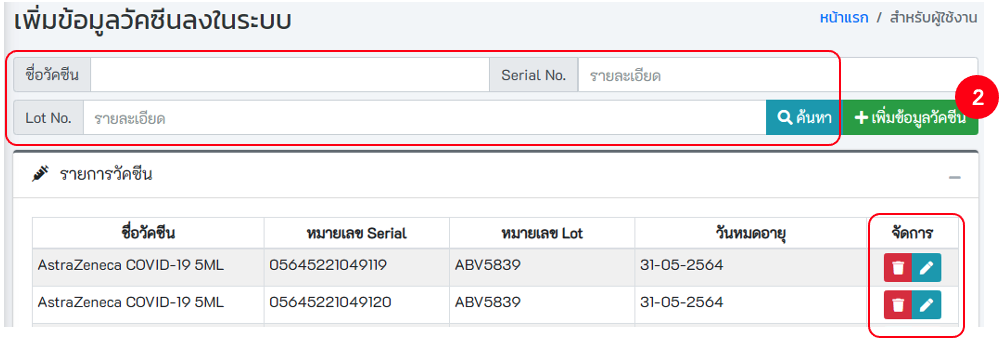
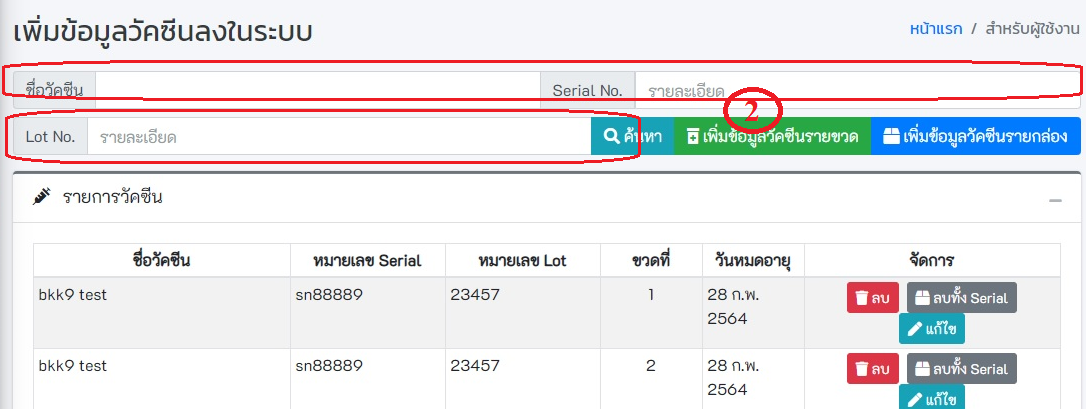
edit document by natanon

diff --git a/docs/.vuepress/config.js b/docs/.vuepress/config.js
@@ -1,5 +1,5 @@
 module.exports = {
-    title: 'Co-Vaccine-Moph V.0.1.2 Update 27/02/2021',
+    title: 'Co-Vaccine-Moph V.0.1.2 Update 03/03/2021',
     description: '',
     base: '/co-vaccine-docs/',
     port: '4000',

diff --git a/docs/user/prepare-work.md b/docs/user/prepare-work.md
@@ -5,12 +5,12 @@ title: 5. เตรียมปฏิบัติงาน
 # เตรียมปฏิบัติงาน
 ![](./img/plan-menu.png)
 
-## 3.1 ค้นหาแผนปฏิบัติงาน
+## 5.1 ค้นหาแผนปฏิบัติงาน
 - **การค้นหาและการจัดการ** สามารถทำการลบ และแก้ไขข้อมูลของแผนปฏิบัติงานได้
 - **เพิ่มแผนปฏิบัติงานใหม่**
 ![](./img/plan-search.png)
 
-## 3.2 เพิ่มแผนปฏิบัติงาน
+## 5.2 เพิ่มแผนปฏิบัติงาน
 - คลิกปุ่ม `เพิ่มแผนปฏิบัติงาน`
 - ระบุ วันที่นัด (พ.ศ.-เดือน-ปี) และ รายละเอียดของแผนการให้วัคซีน หลังจากนั้นกดปุ่ม บันทึก 
 - **กรณีมีการนัดครั้งถัดไป** ให้ใส่จำนวนวันนัด และกดปุ่ม + ระบบจะคำนวณวันนัดให้วัคซีนครั้งถัดไปโดยอัตโนมัติ หรือ ระบุ วันที่นัด **(พ.ศ.-เดือน-ปี)**  และใส่รายละเอียด หลังจากนั้นกดปุ่ม **บันทึก**
@@ -18,42 +18,61 @@ title: 5. เตรียมปฏิบัติงาน
 ![](./img/plan-add-1.png)
 ![](./img/plan-add-2.png)
 
-## 3.3 เพิ่มผู้ปฏิบัติงานในแผนฯ
+## 5.3 เพิ่มผู้ปฏิบัติงานในแผนฯ
 ![](./img/user-to-plan-1.png)
-### 3.3.1 รหัสสถานบริการเดียวกัน
+### 5.3.1 รหัสสถานบริการเดียวกัน
 - เลือกแผนปฏิบัติงาน และเลือกรายชื่อผู้ปฏิบัติงานในแผน หลังจากนั้นกดปุ่ม **บันทึก**
 
 ![](./img/user-to-plan-2-3.png)
 
-### 3.3.2 กรณีเพิ่มผู้ใช้งานจากโรงพยาบาล/สถานพยาบาลอื่น
+### 5.3.2 กรณีเพิ่มผู้ใช้งานจากโรงพยาบาล/สถานพยาบาลอื่น
 - ระบุเงื่อนไขในการค้นหา เช่น เลขบัตรประจำตัวประชาชน รหัสสถานพยาบาล ขื่อ นามสกุล หลังจากนั้นกดปุ่ม **ค้นหา**
 - คลิกที่ checkbox เพื่อเลือกผู้ปฏิบัติงาน หลังจากนั้นกดปุ่ม บันทึก
 
 ![](./img/user-plan-4-difference-hoscode.png)
 
-## 3.4 เพิ่มข้อมูลวัคซีน
-- **ระบุเงื่อนไขที่ต้องการค้นหา** เช่น ชื่อวัคซีน Serial No. Lot No. จากนั้นคลิกที่ปุ่ม ค้นหา
-- **เพิ่มข้อมูลวัคซีน** 
-  - ระบุข้อมูลให้ถูกต้อง และครบถ้วน **โดยเฉพาะช่องสีแดง** 
-  - **หรือ** กดปุ่ม Scan เพื่อทำการสแกน QR Code , Barcode , Data Matrix ที่ระบุข้างกล่อง ระบบจะทำการอ่านข้อมูล และเติมลงในช่องต่าง ๆ
+## 5.4 เมนูเพิ่มข้อมูลวัคซีน
+- **กดเพิ่มข้อมูลวัคซีนจากเมนูด้านซ้าย ตามรูปหมายเลข1**
 
 ![](./img/add-vaccine-1.png)
-![](./img/add-vaccine-1_2.png)
-![](./img/add-vaccine-1_3.png)
 
-## 3.5 ผูกวัคซีนกับกิจกรรม
+- **การค้นหาข้อมูลวัคซีน** 
+  - **ระบุเงื่อนไขที่ต้องการค้นหา** เช่น ชื่อวัคซีน Serial No. Lot No. จากนั้นคลิกที่ปุ่ม ค้นหา 
+
+- **เพิ่มข้อมูลวัคซีนรายขวด** ตามรูปหมายเลข 2
+  ![](./img/add-vaccine-1_2.png)
+  - **ระบุข้อมูลให้ถูกต้อง และครบถ้วน โดยเฉพาะช่องสีแดง** 
+  - **หรือ กดปุ่ม Scan** ตามรูปหมายเลข 5 เพื่อทำการสแกน QR Code , Barcode , Data Matrix ที่ระบุข้างกล่อง ระบบจะทำการอ่านข้อมูล และเติมลงในช่องต่าง ๆ
+  ![](./img/add-vaccine-1_3.png)
+  - **เมื่อเสร็จแล้ว กดปุ่ม บันทึก** ตามรูปหมายเลข 4
+
+- **เพิ่มข้อมูลวัคซีนรายกล่อง** ตามรูปหมายเลข 1
+  ![](./img/add-vaccine-2_1.png)
+  - **ระบุข้อมูลให้ถูกต้อง และครบถ้วน โดยเฉพาะช่องสีแดง** 
+  - **หรือ กดปุ่ม Scan** ตามรูปหมายเลข 2 เพื่อทำการสแกน QR Code , Barcode , Data Matrix ที่ระบุข้างกล่อง ระบบจะทำการอ่านข้อมูล และเติมลงในช่องต่าง ๆ
+  ![](./img/add-vaccine-2_2.png)
+  - **เมื่อเสร็จแล้ว กดปุ่ม บันทึก** ตามรูปหมายเลข 3
+
+## 5.5 ผูกวัคซีนกับกิจกรรม
 
 ![](./img/vaccine-join-1.png)
+- **เปลี่ยนกิจกรรม** ตามรูปหมายเลข 1 หากไม่ใช่กิจกรรมที่ต้องการผูกกับวัคซีน
+  ![](./img/vaccine-activity1.png)
 
-- ระบุเงื่อนไขที่ต้องการค้นหา หรือ กดปุ่มค้นหา
-  - แสดงข้อมูลเฉพาะวัคซีนที่ยังไม่ได้ทำการผูกกับกิจกรรม
-- เลือกวัคซีน และกดปุ่ม **เพิ่ม**
-- แสดงวัคซีนที่เลือก หลังจากนั้นกดปุ่ม **บันทึก**
+  - **เลือก แผนปฎิบัติงาน และกิจกรรม** เมื่อเสร็จสิ้น กด ปิด ตามรูปหมายเลข 2
+  ![](./img/vaccine-activity2.png)
 
-![](./img/vaccine-join-2.png)
-![](./img/vaccine-join-3.png)
+- หากต้องการค้นหา ให้ระบุเงื่อนไขที่ต้องการค้นหา แล้ว กดปุ่มค้นหา ตามรูปหมายเลข 3
+  ![](./img/vaccine-activity3.png)
+  
+- จะแสดงข้อมูลเฉพาะวัคซีนที่ยังไม่ได้ทำการผูกกับกิจกรรม เมื่อต้องการเลือกวัคซีน ให้กดปุ่ม **เพิ่ม** หรือ **เพิ่มทั้ง Serial** ตามรูปหมายเลข 4 หรือ 5
+  ![](./img/vaccine-activity4.png)
 
-## 3.6 พิมพ์ QR Code วัคซีน
+- แสดงวัคซีนที่เลือก หลังจากนั้นกดปุ่ม **บันทึก** ตามรูปหมายเลข 6
+  ![](./img/vaccine-activity6.png)
+
+
+## 5.6 พิมพ์ QR Code วัคซีน
 ![](./img/qrcode-1.png)
 ![](./img/qrcode-2.png)
 ![](./img/qrcode-3.png)

diff --git a/docs/user/working.md b/docs/user/working.md
@@ -4,8 +4,8 @@ title: 6. ออกปฏิบัติงาน
 
 # ออกปฏิบัติงาน
 
-## 4.1 ลงทะเบียนผู้รับวัคซีน
-### 4.1.1 การค้นหา
+## 6.1 ลงทะเบียนผู้รับวัคซีน
+### 6.1.1 การค้นหา
 - **การค้นหา** คลิกที่ Checkbox ตรวจสอบว่ามีสิทธิ์เข้ารับวัคซีนหรือไม่ระบุเงื่อนไขในการค้นหา เช่น เลขบัตรประจำตัวประชาชน ขื่อ นามสกุล หลังจากนั้นกดปุ่ม **ค้นหา**
 ![](./img/service-recipient-1.png)
 
@@ -23,39 +23,39 @@ title: 6. ออกปฏิบัติงาน
   - เมื่อกดปุ่มบันทึก หน้าจอจะแสดงปุ่ม **พิมพ์ใบลงทะเบียน ให้กดปุ่มพิมพ์ใบลงทะเบียน** เพื่อปริ้นใบลงทะเบียนให้กับผู้รับบริการ
   ![](./img/service-recipient-1_2.png)
 
-## 4.2 รายการลงทะเบียน
+## 6.2 รายการลงทะเบียน
 ![](./img/register-list-1.png)
 
-## 4.3 คัดกรองก่อนให้วัคซีน
-### 4.3.1 ค้นหา
+## 6.3 คัดกรองก่อนให้วัคซีน
+### 6.3.1 ค้นหา
 - ค้นหาโดยกรอกเลขบัตรประจำตัวประชาชน หรือ
 - ใช้เครื่องอ่านบัตรประจำตัวประชาชนแบบ Smartcard  คลิกที่ checkbox อ่านบัตร
 ![](./img/screening-1.png)
 - พิมพ์ Concense Form
 ![](./img/concense-form-1.png)
 
-## 4.4 การให้วัคซีน
-### 4.4.1 ค้นหา
+## 6.4 การให้วัคซีน
+### 6.4.1 ค้นหา
 - ค้นหาโดยกรอกเลขบัตรประจำตัวประชาชน หรือ
 - ใช้เครื่องอ่านบัตรประจำตัวประชาชนแบบ Smartcard คลิกที่ checkbox อ่านบัตร
 
 ![](./img/vaccine-operation-1.png)
-### 4.4.2 กรอกข้อมูล
+### 6.4.2 กรอกข้อมูล
 - ระบุข้อมูลให้ถูกต้อง ครบถ้วน **โดยเฉพาะช่องสีแดง** หรือ กดปุ่ม Scan QR Code ระบบจะเติมข้อมูลที่ได้จาก QR Code ลงในช่องข้อมูล หลังจากนั้นกดปุ่ม **บันทึก**
 
 ![](./img/vaccine-operation-2.png)
 
-### 4.4.- พิมพ์ใบนัด
+### 6.4.3 พิมพ์ใบนัด
 ![](./img/vaccine-appointment-1.png)
 
-## 4.5 จุดตรวจสอบก่อนกลับบ้าน
+## 6.5 จุดตรวจสอบก่อนกลับบ้าน
 ![](./img/check-before-gohome-1.png)
 
-## 4.6 ติดตามอาการ
+## 6.6 ติดตามอาการ
 ![](./img/follow-1.png)
 - บันทึกติดตามอาการหลังจากได้รับวัคซีน 7 วัน หรือ 30 วัน
 ![](./img/follow-2.png)
 
-## 4.7 ดาวน์โหลดข้อมูล
+## 6.7 ดาวน์โหลดข้อมูล
 - เลือกแผนปฏิบัติงาน และเลือกกิจกรรมของงานหรือ คลิกที่ checkbox ทั้งหมด หากต้องดาวน์โหลดข้อมูลผู้ที่ได้รับวัคซีนทั้งหมด
 ![](./img/download-data.png)

diff --git a/docs/user/user-menu.md b/docs/user/user-menu.md
@@ -8,4 +8,6 @@ title: 2. เมนูผู้ใช้งาน
 ![](./img/user-profile.png)
 
 ## 2.2 ออกจากระบบ
-- คลิกปุ่ม "ออกจากระบบ"
+![](./img/userlogout.png)
+- คลิกปุ่ม "ออกจากระบบ" ตามรูปหมายเลขที่ 1 หรือ 2 
+ 
